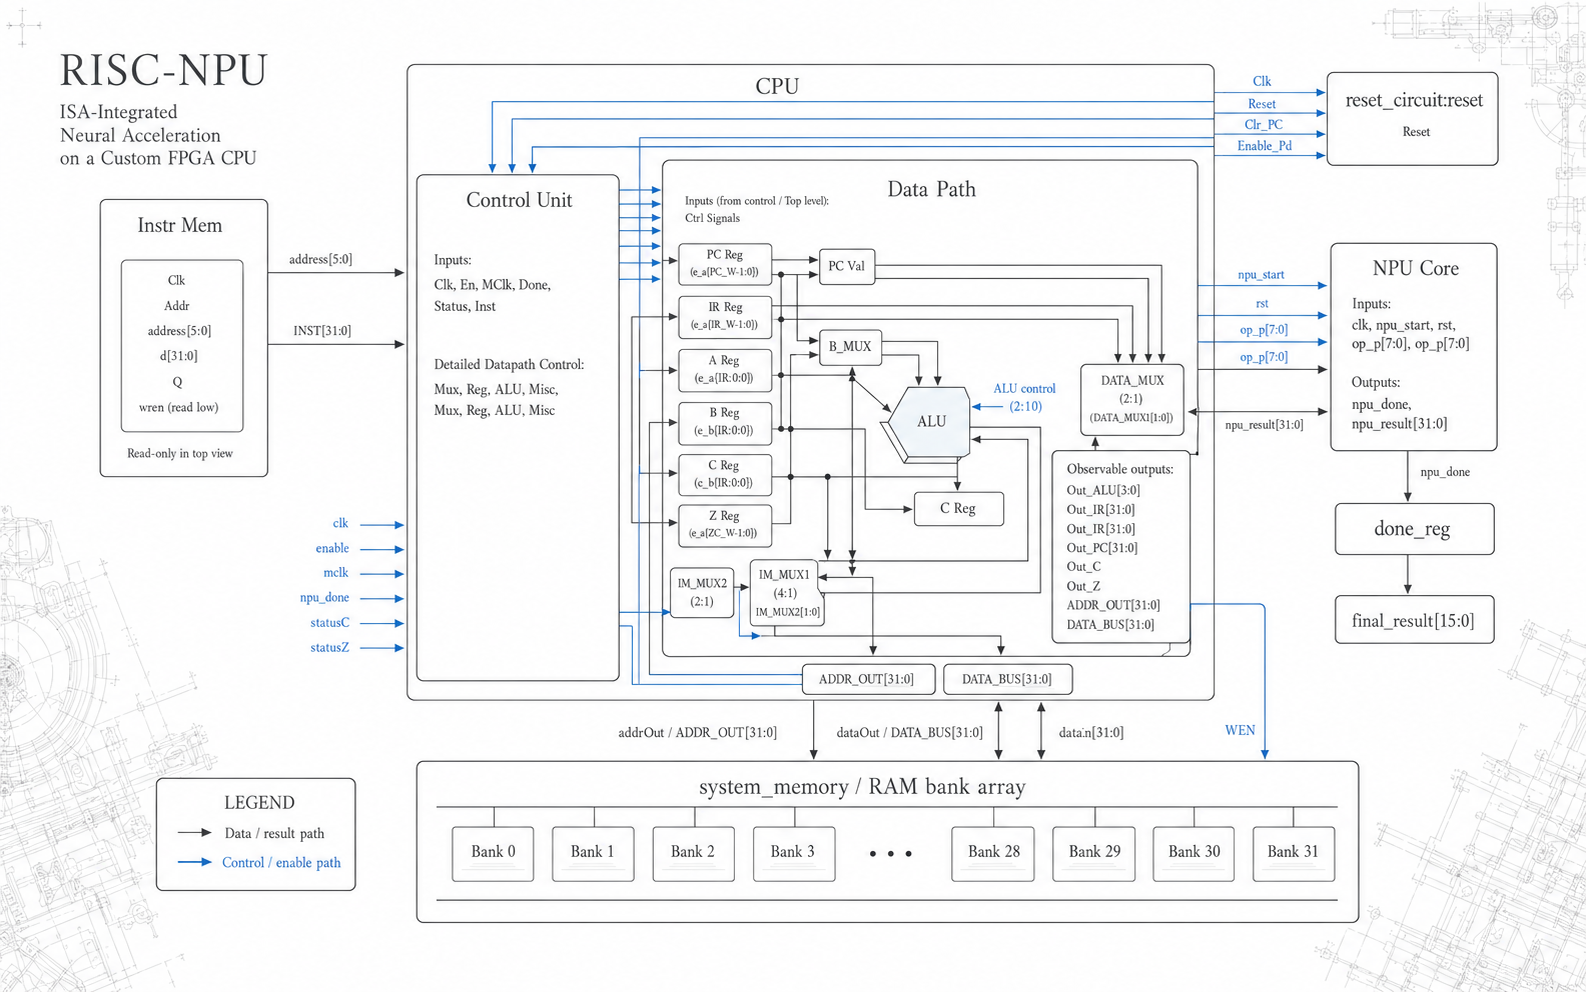
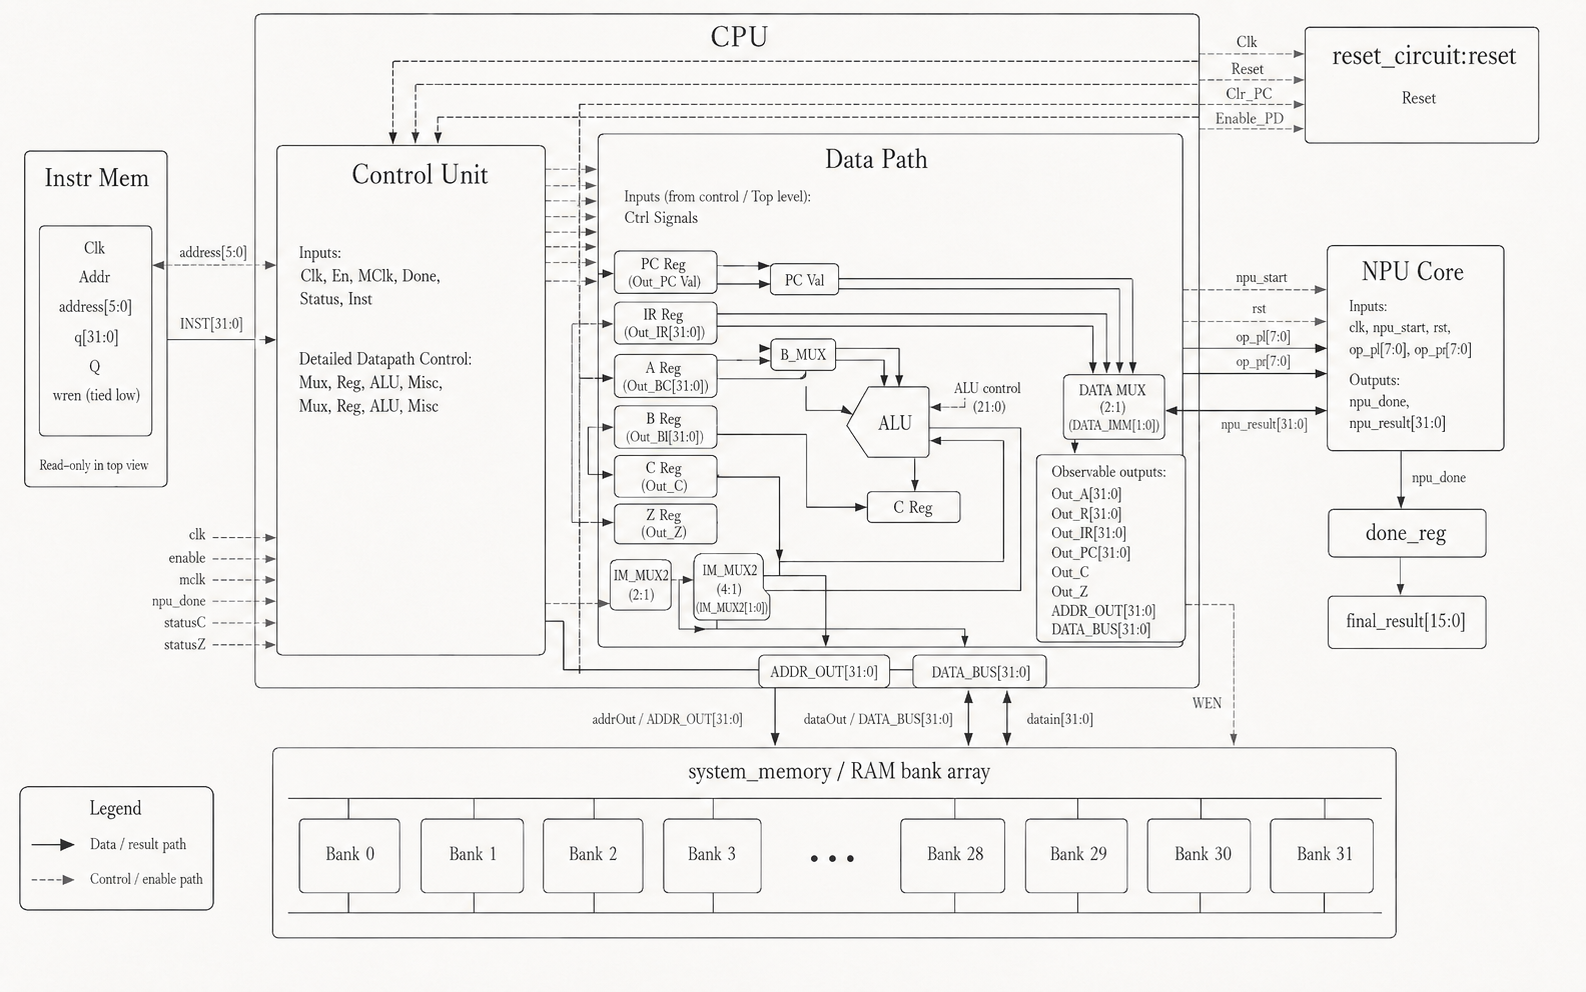
Replace RISC-NPU thumbnail

diff --git a/projects.html b/projects.html
@@ -58,7 +58,7 @@
 
         <article class="work-row">
             <a class="work-media npu-media" href="https://jaundel.github.io/risc-npu-article/" aria-label="Open RISC-NPU article">
-                <img src="assets/figures/risc-npu-thumbnail.png" alt="RISC-NPU architecture blueprint">
+                <img src="assets/figures/risc-npu-thumbnail.png?v=20260614-1446" alt="RISC-NPU architecture blueprint">
                 <span>RISC-NPU</span>
             </a>
             <div class="work-copy">
